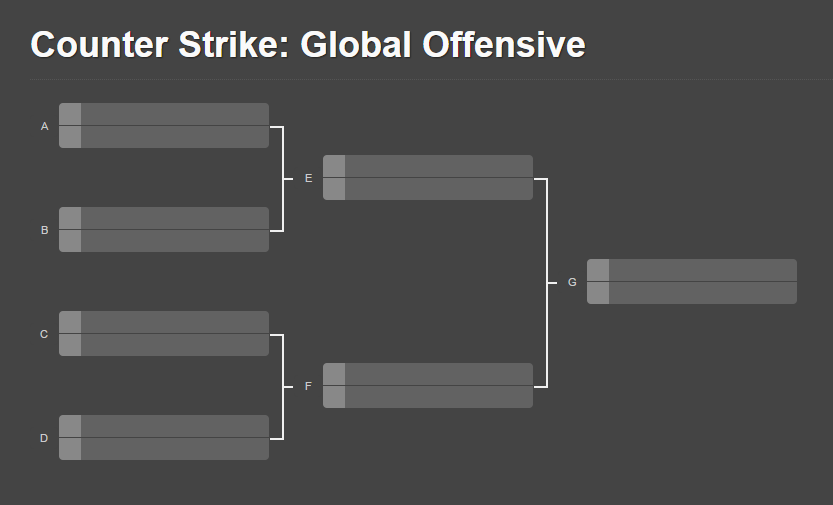
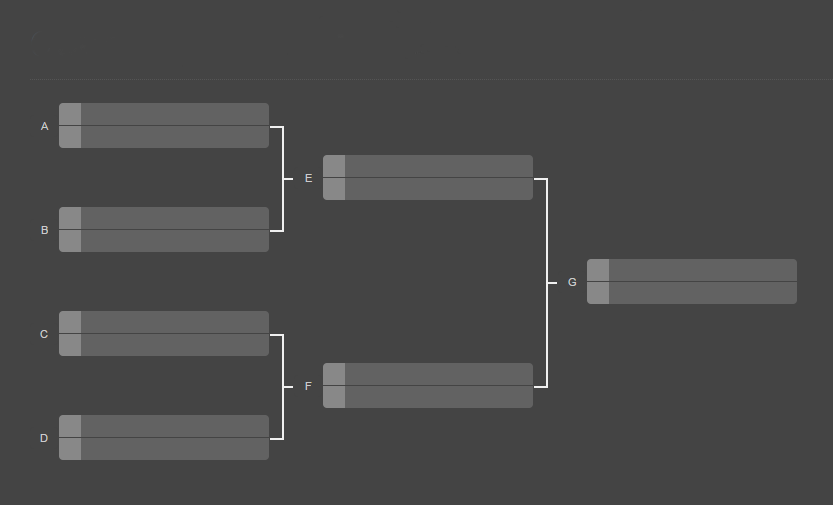
Ska fixas klart av walter.
brackets bild

Changed region(s): [[0.0312, 0.0594, 0.7179, 0.1188]]

diff --git a/brackets.php b/brackets.php
@@ -77,6 +77,9 @@ register();
                 <div class="col-xs-1 col-sm-1 col-md-1 col-lg-1">
                   <div class="image">
                     <img alt="" src="images/bracket.png" />
+					<div class= "brack-header"> 
+					<div>Hej </div>
+					</div>
                       <div class="text">
                         <div class="col-xs-6 col-sm-5 col-md-4 col-lg-3">
                           <div id="ladder11"><?php echo "<td>$row[1]</td>"; ?></div>
